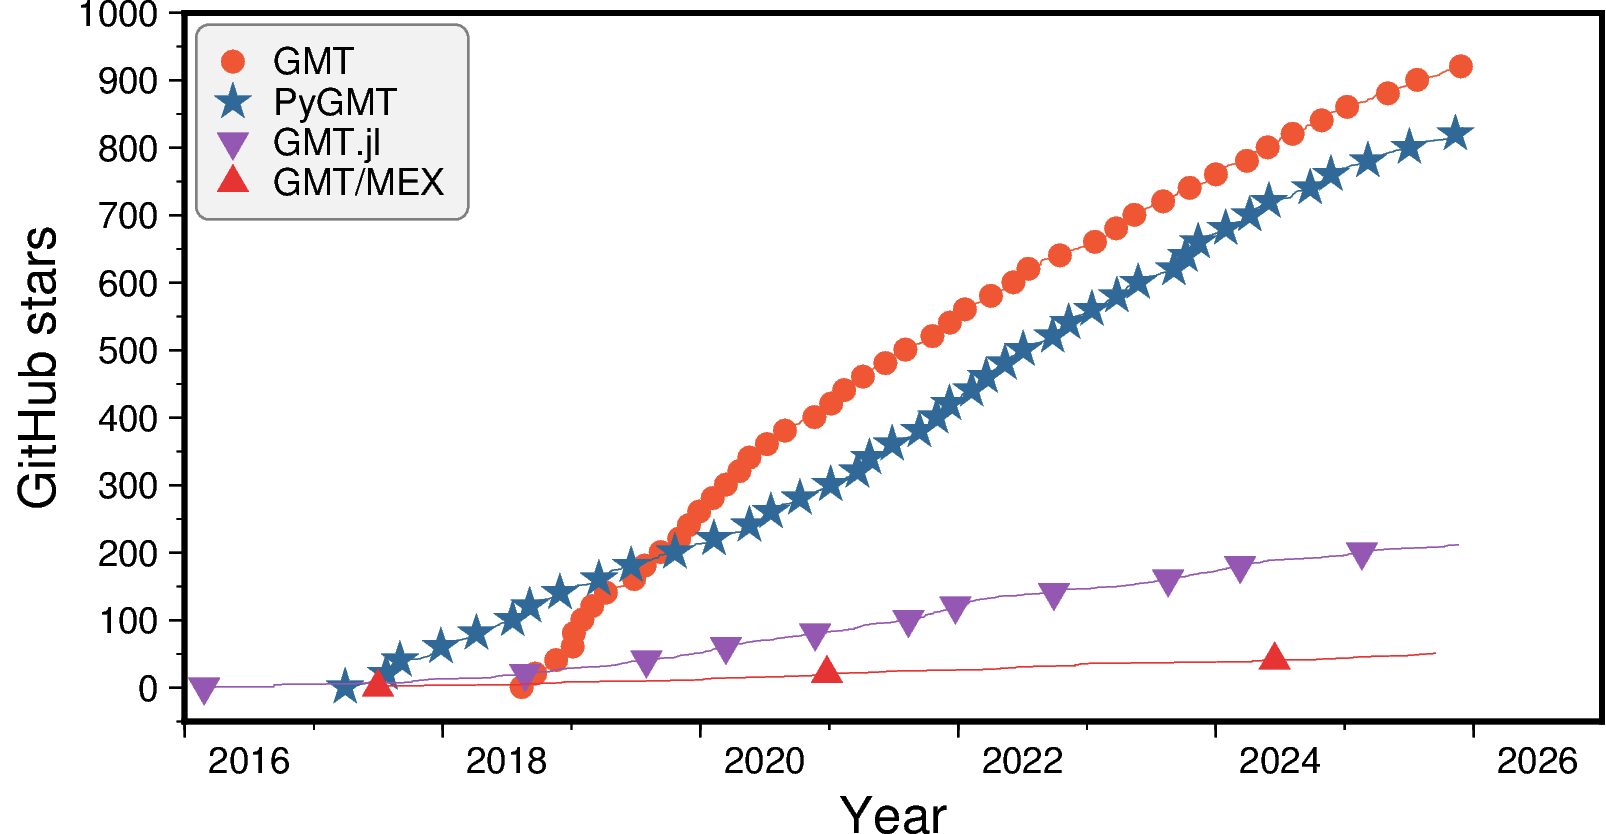
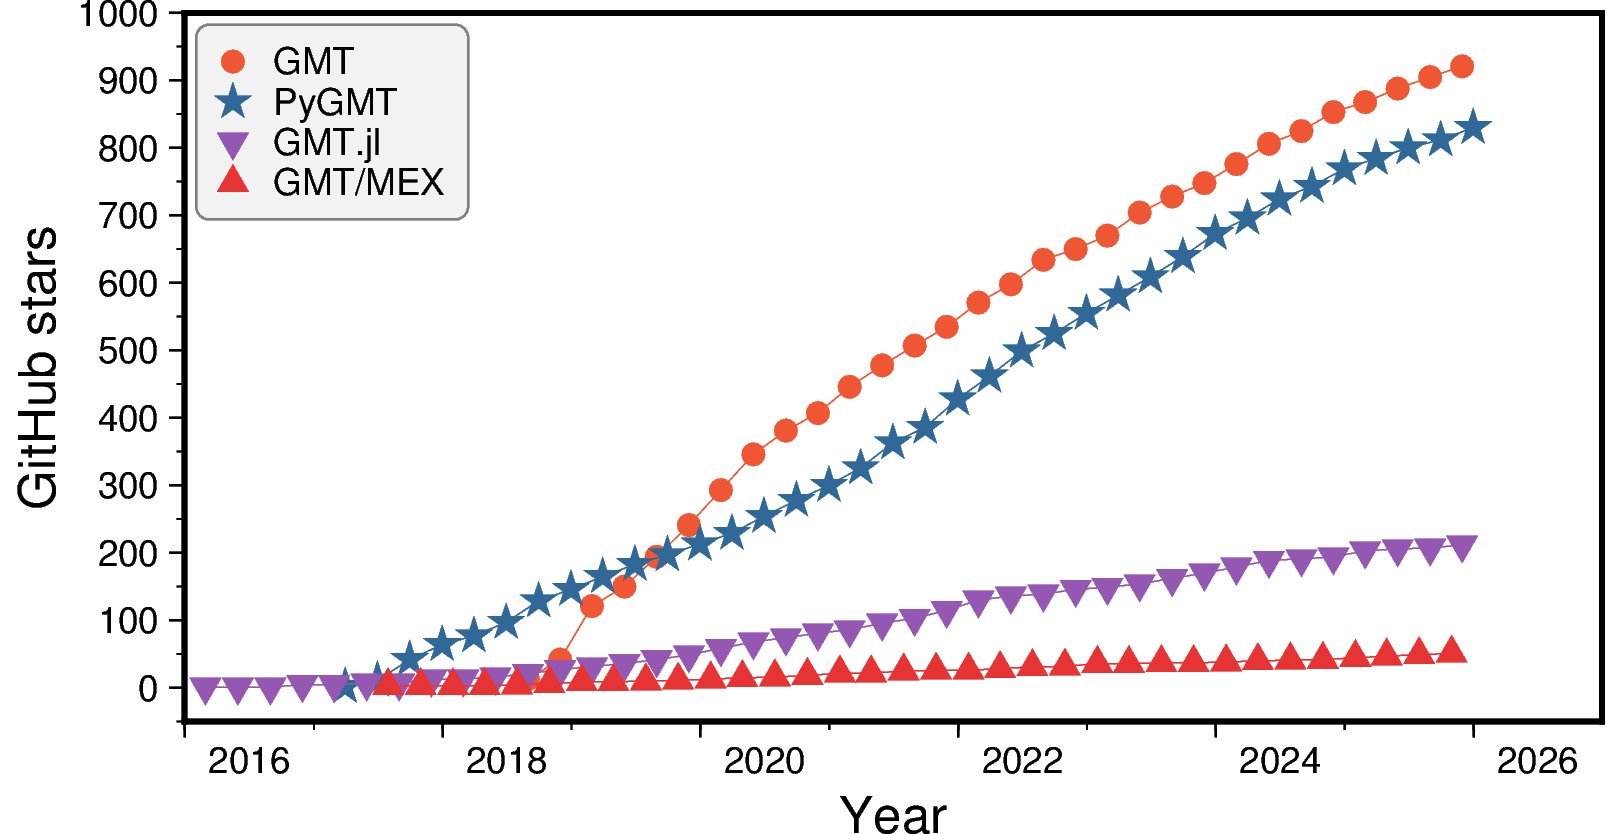
Add code from Dongdong and update output image

diff --git a/Fig7_PyGMT_datetime.py b/Fig7_PyGMT_datetime.py
@@ -1,11 +1,14 @@
 import requests
 import pandas as pd
 
-owner = "GenericMappingTools"
-headers = {"Accept": "application/vnd.github.v3.star+json"}
+def get_star_history(repo):
+    owner = "GenericMappingTools"
+    headers = {
+        "Accept": "application/vnd.github.v3.star+json",
+        "Authorization": "Bearer {YOUR_GITHUB_TOKEN_HERE}",
+    }
 
-for repo in ["gmt.jl", "pygmt", "gmt", "gmtmex"]:
-    timestamps = []
+    timestamps, users = [], []
     page = 1
 
     while True:
@@ -17,19 +20,19 @@ for repo in ["gmt.jl", "pygmt", "gmt", "gmtmex"]:
         data = r.json()
         if not data:
             break
+        # print(data)
 
         timestamps += [s["starred_at"] for s in data]  # full ISO 8601 timestamp
+        users += [s["user"]["login"] for s in data]
         page += 1
+    df = pd.DataFrame({"timestamp": timestamps, "user": users})
+    df.sort_values("timestamp", inplace=True)
 
-    timestamps.sort()  # ISO strings sort chronologically
-
-    df = pd.DataFrame({"timestamp": timestamps})
-    df["cumulative_stars"] = range(1, len(df) + 1)
-
-    print(df)
-    df.to_csv(f"star_history_github_{repo}.csv", sep=";", index=False)
+    df.to_csv(f"star_history_github_{repo}.csv", sep=",", index=False)
 
 
+for repo in ["gmt", "pygmt", "gmt.jl", "gmtmex"]:
+    get_star_history(repo)
 
 # %%
 import datetime
@@ -41,7 +44,6 @@ from pygmt.params import Box
 stars_step = 20
 
 fig = pygmt.Figure()
-
 fig.basemap(
     projection="X12c/6c",
     region=[datetime.date(2016, 1, 1), datetime.date(2026, 12, 31), -50, 1000],
@@ -55,10 +57,17 @@ for wrapper, file, color, symbol in zip(
     ["C", "A", "I", "T"],
     strict=False,
 ):
-    stars = pd.read_csv(f"star_history_github_{file}.csv", sep=";")
-    fig.plot(data=stars, pen=color)
-    fig.plot(data=stars[0:len(stars):stars_step], fill=color, style=f"{symbol}0.2c", label=wrapper)
-
+    df = pd.read_csv(
+        f"star_history_github_{file}.csv",
+        sep=",",
+        parse_dates=["timestamp"],
+        index_col="timestamp",
+    )
+    df = df.resample("3ME").count().cumsum().rename(columns={"user": "stars"})
+    fig.plot(x=df.index, y=df["stars"], pen=color)
+    fig.plot(
+        x=df.index, y=df["stars"], style=f"{symbol}0.2c", fill=color, label=wrapper
+    )
 fig.legend(
     position="jTL+o0.1c+w2.3", box=Box(fill="gray95", pen="0.5p,gray50", radius="3p"),
 )
